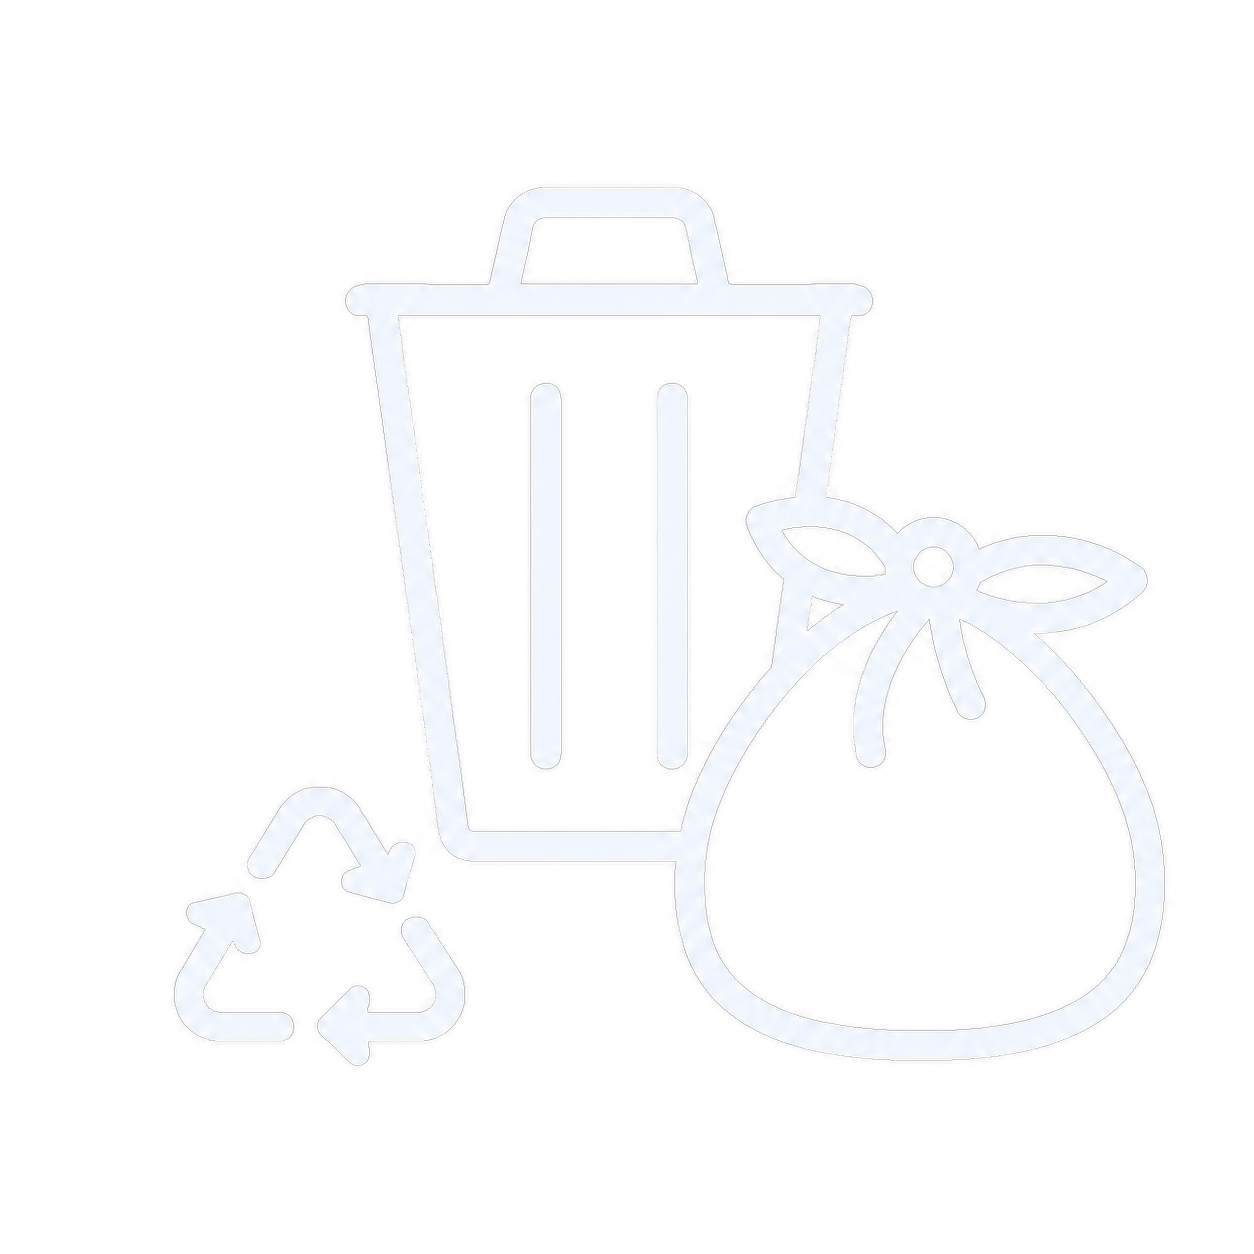
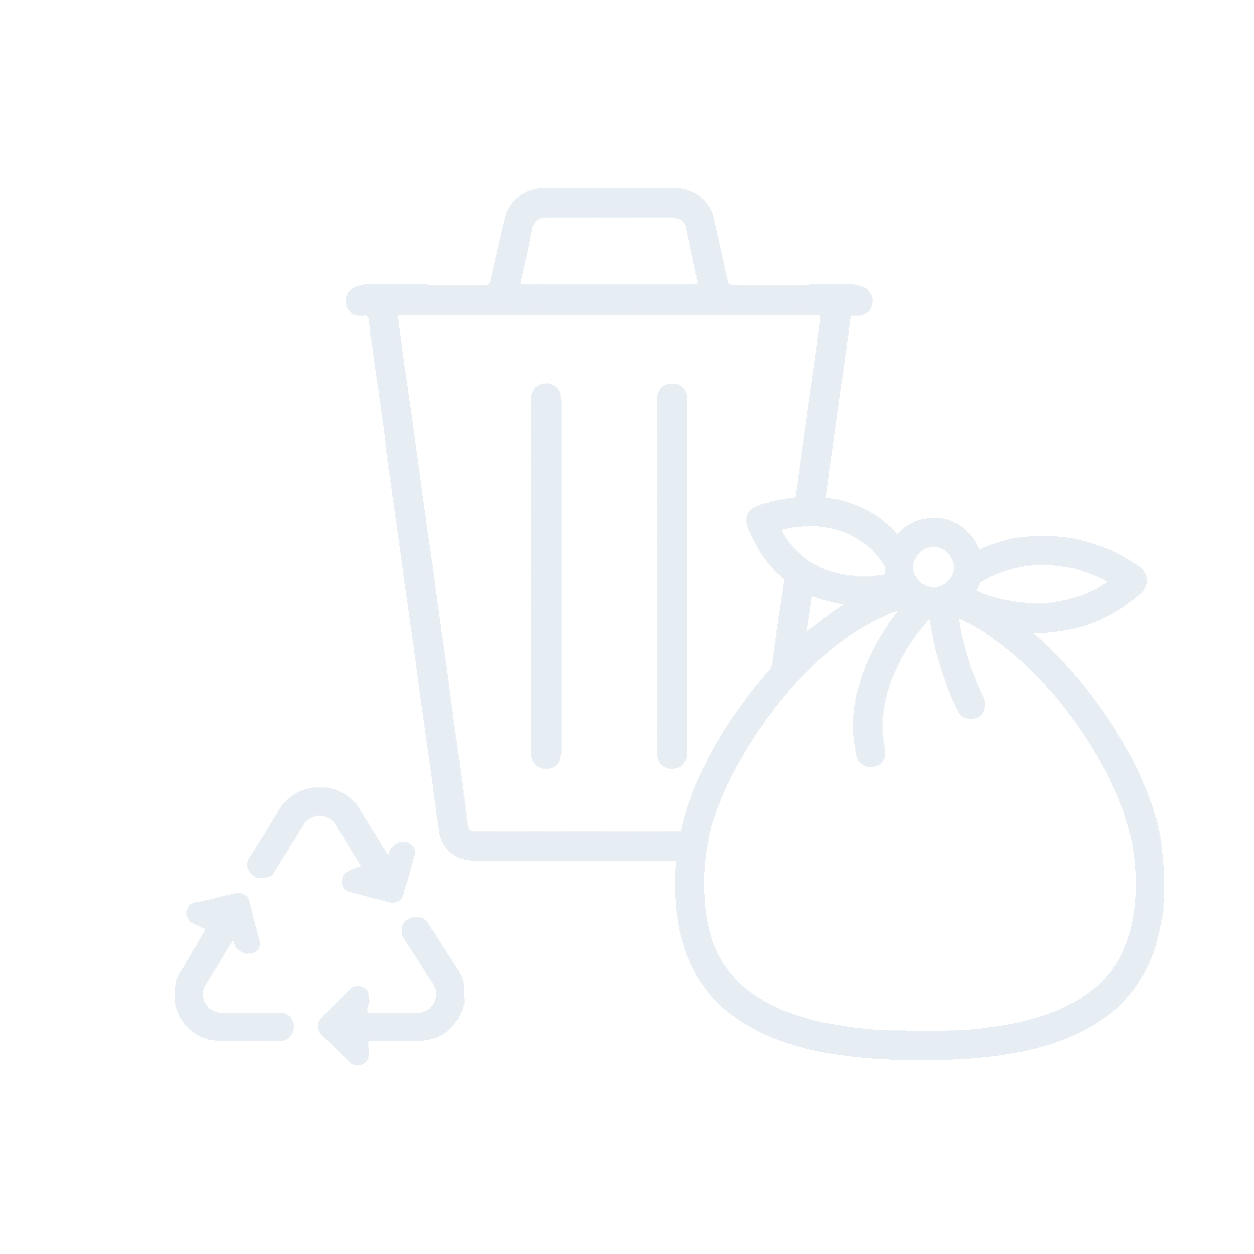
fix: アイコンのダークモード表示を改善

diff --git a/app/components/FindInfo.tsx b/app/components/FindInfo.tsx
@@ -1,16 +1,17 @@
 'use client';
 
 import Image from 'next/image';
+import type { CSSProperties } from 'react';
 import { useI18n } from '../i18n/LanguageProvider';
 import { LabeledBox } from './LabeledBox';
+import { useIsDarkTheme } from './theme-store';
 
 // ライトパスからダークパスを派生（命名規則: <ライト名>-dark.png）
 function darkIconPath(light: string): string {
   return light.replace(/\.png$/, '-dark.png');
 }
 
-// テーマに追従してアイコンを出し分ける（クラスベースのダークモード用に CSS で切替）。
-// display:none の要素は支援技術に読まれないため、両方に同一 alt で問題なし。
+// テーマ状態を購読し、AI 相談カード用の多色アイコン画像を src レベルで出し分ける。
 function ThemedIcon({
   light,
   dark,
@@ -25,12 +26,38 @@ function ThemedIcon({
   /** 表示サイズをレスポンシブに上書きする場合に指定（width/height 属性は固有比のため size を維持） */
   className?: string;
 }) {
+  const isDark = useIsDarkTheme();
   const base = className ? ` ${className}` : '';
+
   return (
-    <>
-      <Image src={light} alt={alt} width={size} height={size} className={`shrink-0 dark:hidden${base}`} />
-      <Image src={dark} alt={alt} width={size} height={size} className={`hidden shrink-0 dark:block${base}`} />
-    </>
+    <Image
+      src={isDark ? dark : light}
+      alt={alt}
+      width={size}
+      height={size}
+      className={`shrink-0${base}`}
+    />
+  );
+}
+
+function MaskedIcon({ src, className }: { src: string; className?: string }) {
+  const style: CSSProperties = {
+    WebkitMaskImage: `url("${src}")`,
+    maskImage: `url("${src}")`,
+    WebkitMaskPosition: 'center',
+    maskPosition: 'center',
+    WebkitMaskRepeat: 'no-repeat',
+    maskRepeat: 'no-repeat',
+    WebkitMaskSize: 'contain',
+    maskSize: 'contain',
+  };
+
+  return (
+    <span
+      aria-hidden="true"
+      className={`block shrink-0 bg-icon-muted transition-colors group-hover:bg-icon-strong${className ? ` ${className}` : ''}`}
+      style={style}
+    />
   );
 }
 
@@ -126,15 +153,9 @@ export function FindInfo() {
               <a
                 key={item.label}
                 href="#"
-                className="relative flex aspect-square flex-col items-center justify-center gap-2 overflow-hidden px-2 text-center text-fg transition-colors before:pointer-events-none before:absolute before:inset-y-2.5 before:right-0 before:w-px before:bg-line-subtle before:content-[''] after:pointer-events-none after:absolute after:inset-x-2.5 after:bottom-0 after:h-px after:bg-line-subtle after:content-[''] hover:bg-surface-hover lg:gap-3"
+                className="group relative flex aspect-square flex-col items-center justify-center gap-2 overflow-hidden px-2 text-center text-fg transition-colors before:pointer-events-none before:absolute before:inset-y-2.5 before:right-0 before:w-px before:bg-line-subtle before:content-[''] after:pointer-events-none after:absolute after:inset-x-2.5 after:bottom-0 after:h-px after:bg-line-subtle after:content-[''] hover:bg-surface-hover lg:gap-3"
               >
-                <ThemedIcon
-                  light={item.icon}
-                  dark={darkIconPath(item.icon)}
-                  alt={item.label}
-                  size={80}
-                  className="h-12 w-12 lg:h-20 lg:w-20"
-                />
+                <MaskedIcon src={item.icon} className="h-12 w-12 lg:h-20 lg:w-20" />
                 <span className="text-xs font-semibold leading-snug md:text-sm lg:text-base">
                   {item.label}
                 </span>

diff --git a/app/i18n/LanguageProvider.tsx b/app/i18n/LanguageProvider.tsx
@@ -4,7 +4,7 @@ import {
   createContext,
   useContext,
   useEffect,
-  useState,
+  useSyncExternalStore,
   type ReactNode,
 } from 'react';
 import {
@@ -16,6 +16,7 @@ import {
 } from './dictionaries';
 
 const STORAGE_KEY = 'locale';
+const LOCALE_CHANGE_EVENT = 'mirai-city-locale-change';
 
 type LanguageContextValue = {
   locale: Locale;
@@ -25,30 +26,49 @@ type LanguageContextValue = {
 
 const LanguageContext = createContext<LanguageContextValue | null>(null);
 
-export function LanguageProvider({ children }: { children: ReactNode }) {
-  const [locale, setLocaleState] = useState<Locale>(defaultLocale);
+function getStoredLocale(): Locale {
+  try {
+    const stored = localStorage.getItem(STORAGE_KEY);
+    if (stored && isLocale(stored)) return stored;
+  } catch {
+    /* localStorage が使えない環境では既定ロケールを使う */
+  }
+  return defaultLocale;
+}
 
-  // マウント後に保存済みの言語設定を反映する（SSR とのハイドレーション不整合を避けるため初期値は既定ロケール）
+function getServerLocaleSnapshot(): Locale {
+  return defaultLocale;
+}
+
+function subscribeLocaleChange(onStoreChange: () => void) {
+  window.addEventListener(LOCALE_CHANGE_EVENT, onStoreChange);
+  window.addEventListener('storage', onStoreChange);
+
+  return () => {
+    window.removeEventListener(LOCALE_CHANGE_EVENT, onStoreChange);
+    window.removeEventListener('storage', onStoreChange);
+  };
+}
+
+export function LanguageProvider({ children }: { children: ReactNode }) {
+  const locale = useSyncExternalStore(
+    subscribeLocaleChange,
+    getStoredLocale,
+    getServerLocaleSnapshot,
+  );
+
   useEffect(() => {
-    try {
-      const stored = localStorage.getItem(STORAGE_KEY);
-      if (stored && isLocale(stored) && stored !== defaultLocale) {
-        setLocaleState(stored);
-        document.documentElement.lang = stored;
-      }
-    } catch {
-      /* localStorage が使えない環境では無視 */
-    }
-  }, []);
+    document.documentElement.lang = locale;
+  }, [locale]);
 
   const setLocale = (next: Locale) => {
-    setLocaleState(next);
-    document.documentElement.lang = next;
     try {
       localStorage.setItem(STORAGE_KEY, next);
     } catch {
       /* localStorage が使えない環境では無視 */
     }
+    document.documentElement.lang = next;
+    window.dispatchEvent(new Event(LOCALE_CHANGE_EVENT));
   };
 
   return (

diff --git a/app/components/theme-store.ts b/app/components/theme-store.ts
@@ -1,0 +1,58 @@
+'use client';
+
+import { useSyncExternalStore } from 'react';
+
+const THEME_CHANGE_EVENT = 'mirai-city-theme-change';
+
+function getThemeSnapshot() {
+  return document.documentElement.classList.contains('dark');
+}
+
+function getServerThemeSnapshot() {
+  return false;
+}
+
+function syncThemeFromStorage() {
+  try {
+    const stored = localStorage.getItem('theme');
+    if (stored === 'dark' || stored === 'light') {
+      document.documentElement.classList.toggle('dark', stored === 'dark');
+    }
+  } catch {
+    /* localStorage が使えない環境では現在の DOM 状態を維持 */
+  }
+}
+
+function subscribeThemeChange(onStoreChange: () => void) {
+  const notify = () => onStoreChange();
+  const handleStorage = (event: StorageEvent) => {
+    if (event.key === null || event.key === 'theme') syncThemeFromStorage();
+    onStoreChange();
+  };
+
+  window.addEventListener(THEME_CHANGE_EVENT, notify);
+  window.addEventListener('storage', handleStorage);
+
+  return () => {
+    window.removeEventListener(THEME_CHANGE_EVENT, notify);
+    window.removeEventListener('storage', handleStorage);
+  };
+}
+
+export function useIsDarkTheme() {
+  return useSyncExternalStore(
+    subscribeThemeChange,
+    getThemeSnapshot,
+    getServerThemeSnapshot,
+  );
+}
+
+export function setStoredTheme(isDark: boolean) {
+  document.documentElement.classList.toggle('dark', isDark);
+  try {
+    localStorage.setItem('theme', isDark ? 'dark' : 'light');
+  } catch {
+    /* localStorage が使えない環境では DOM の切替だけ行う */
+  }
+  window.dispatchEvent(new Event(THEME_CHANGE_EVENT));
+}

diff --git a/app/components/ThemeToggle.tsx b/app/components/ThemeToggle.tsx
@@ -1,28 +1,15 @@
 'use client';
 
-import { useEffect, useState } from 'react';
 import { useI18n } from '../i18n/LanguageProvider';
+import { setStoredTheme, useIsDarkTheme } from './theme-store';
 
 export function ThemeToggle() {
   const { t } = useI18n();
-  const [mounted, setMounted] = useState(false);
-  const [isDark, setIsDark] = useState(false);
-
-  // マウント後に現在のテーマ（html.dark の有無）を読み取る
-  useEffect(() => {
-    setIsDark(document.documentElement.classList.contains('dark'));
-    setMounted(true);
-  }, []);
+  const isDark = useIsDarkTheme();
 
   const toggle = () => {
     const next = !isDark;
-    setIsDark(next);
-    document.documentElement.classList.toggle('dark', next);
-    try {
-      localStorage.setItem('theme', next ? 'dark' : 'light');
-    } catch {
-      /* localStorage が使えない環境では無視 */
-    }
+    setStoredTheme(next);
   };
 
   return (
@@ -40,7 +27,7 @@ export function ThemeToggle() {
         {/* 丸いつまみ：ライト時は左、ダーク時は右へスライド */}
         <span
           className={`inline-block h-6 w-6 transform rounded-full bg-white shadow-md transition-transform duration-300 ${
-            mounted && isDark ? 'translate-x-[22px]' : 'translate-x-[2px]'
+            isDark ? 'translate-x-[22px]' : 'translate-x-[2px]'
           }`}
         />
       </button>

diff --git a/app/globals.css b/app/globals.css
@@ -12,6 +12,8 @@
   --line-subtle: #e5e7eb;    /* 仕切り線（= gray-200） */
   --fg: #1f2937;             /* 本文（= gray-800） */
   --fg-muted: #6b7280;       /* 補足/日付/サブタイトル（= gray-500） */
+  --icon-muted: #303640;     /* 生活情報アイコン */
+  --icon-strong: #00118f;    /* 生活情報アイコン（hover） */
   --accent: #00118f;         /* リンク/ホバー文字/アクセント（= primary） */
 
   /* body 用エイリアスは surface/fg に追従させる */
@@ -28,6 +30,8 @@
   --line-subtle: #232932;
   --fg: #e6edf3;
   --fg-muted: #9aa4b2;
+  --icon-muted: #dbe7f6;
+  --icon-strong: #9db7f9;
   --accent: #7096f8;         /* = primary-400（ダークで視認可能な明るい青） */
 }
 
@@ -45,6 +49,8 @@
   --color-line-subtle: var(--line-subtle);
   --color-fg: var(--fg);
   --color-fg-muted: var(--fg-muted);
+  --color-icon-muted: var(--icon-muted);
+  --color-icon-strong: var(--icon-strong);
   --color-accent: var(--accent);
 
   /* テーマカラー（Blue スケール） */
